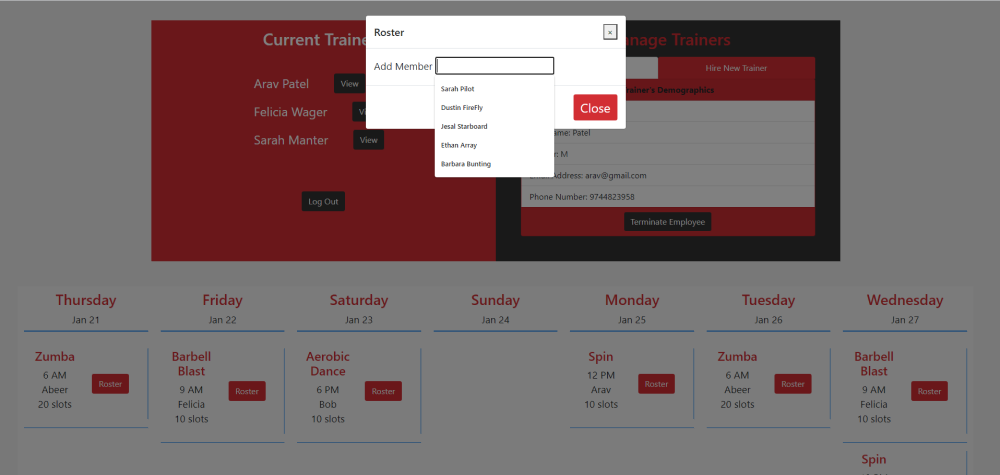
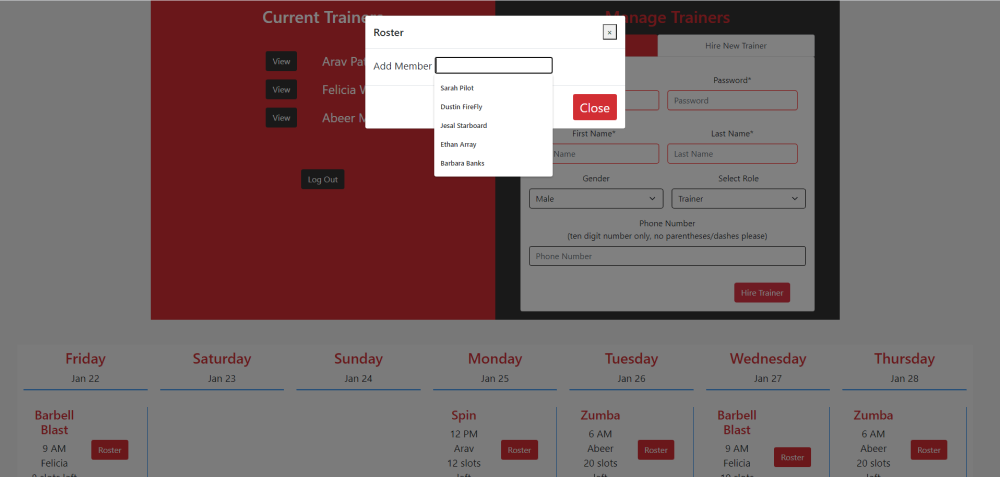
fixes screenshots in readme and a comment in homePage.js

diff --git a/public/assets/js/homePage.js b/public/assets/js/homePage.js
@@ -47,7 +47,7 @@ $("body").on("click", "#getStartedBtn", function () {
   window.location.assign("/register");
 });
 
-//function to display Alert Modal on login error - Code credit:  https://gist.github.com/billmei/2e9d11ff732b1ea6916f (lines 31-37)
+//function to display Alert Modal on login error - Code credit:  https://gist.github.com/billmei/2e9d11ff732b1ea6916f
 function alertModal(title, body) {
   // Display error message to the user in a modal
   $("#alert-modal-title").html(title);
